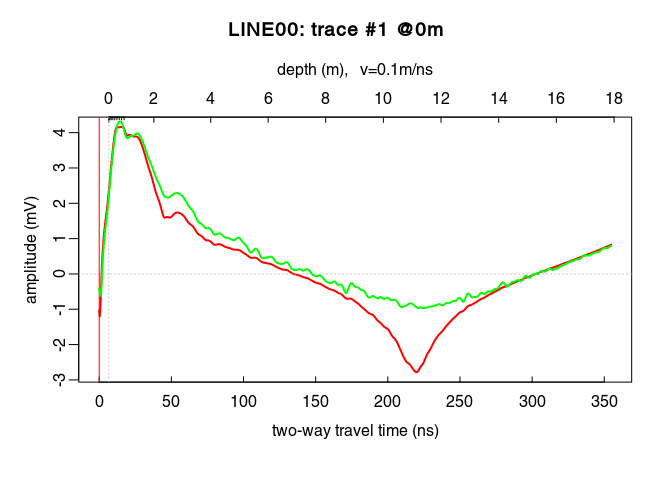
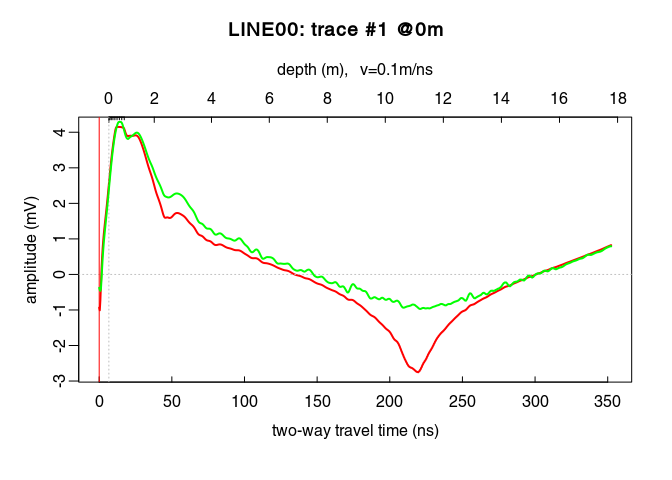
add function 'estimateTime0()'

diff --git a/02_RGPR_tutorial_basic-GPR-data-processing.md b/02_RGPR_tutorial_basic-GPR-data-processing.md
@@ -1,7 +1,7 @@
 ---
 layout: page
 title: Basic GPR data processing
-date: 2019-05-20
+date: 2019-07-27
 ---
 
 <!--
@@ -49,6 +49,29 @@ Install/load `RGPR` and set the working directory
     # install "devtools" if not already done
     if(!require("devtools")) install.packages("devtools")
     devtools::install_github("emanuelhuber/RGPR")
+    ```
+
+\`\`\`\#\#\#\#
+    checking for file ‘/tmp/RtmpuIK1eJ/remotes10695b062f93/emanuelhuber-RGPR-ef59f99/DESCRIPTION’...
+
+✔ checking for file ‘/tmp/RtmpuIK1eJ/remotes10695b062f93/emanuelhuber-RGPR-ef59f99/DESCRIPTION’\#\#
+
+─ preparing ‘RGPR’:\#\#
+
+checking DESCRIPTION meta-information...
+
+✔ checking DESCRIPTION meta-information\#\#
+
+─ checking for LF line-endings in source and make files and shell scripts\#\#
+
+─ checking for empty or unneeded directories\#\# ─ looking to see if a ‘data/datalist’ file should be added\#\#
+
+─ building ‘RGPR\_0.0.5.tar.gz’\#\#
+
+    ##
+    ```
+
+    ```r
     library(RGPR)       # load RGPR in the current R session
     ```
 
@@ -96,7 +119,7 @@ time0(x)
 The first wave break, $t_{\mathrm{fb}}$, is estimated for each traces (it is the time of the first wave record) with `firstBreak()`:
 
 ``` r
-tfb <- firstBreak(x, w = 20, method = "coppens", thr = 0.05) # take some time
+tfb <- firstBreak(x, w = 20, method = "coppens", thr = 0.05)
 plot(pos(x), tfb, pch = 20, ylab = "first wave break",
      xlab = "position (m)")
 ```
@@ -118,7 +141,10 @@ t0 <- firstBreakToTime0(tfb, x)
 time0(x) <- t0     # set time0
 ```
 
-Note that if `t0` is too noisy, you can set `time0(x) <- mean(t0)`.
+Note that:
+
+-   if `t0` is too noisy, you can set `time0(x) <- mean(t0)`.
+-   you can use `x <- setTime0(x, t0)` instead of `time0(x) <- t0` (both are the same)
 
 Check the results (do you see the difference between time zero in red and first wave break time in blue?):
 
@@ -128,6 +154,12 @@ abline(v = tfb[15], col = "blue")  # first wave break time
 ```
 
 ![plot single trace with time0 and first wave break time](02_RGPR_tutorial_basic-GPR-data-processing_tp_files/figure-markdown_github/time0_check-1.png)
+
+You can apply at once all the previous steps (first wave break estimation + set time-zero) with the function `estimateTime0()` (which has the same arguments as the functions `firstBreak()`, `firstBreakToTime0()` plus an extra argument - `FUN` - for function to apply to the estimated time-zero, e.g. `mean()`; see the documentation), i.e.:
+
+``` r
+xx <- estimateTime0(x, w = 20, method = "coppens", thr = 0.05, FUN = mean)
+```
 
 DC shift removal
 ----------------
@@ -546,7 +578,7 @@ writeGPR(x9, fPath = file.path(getwd(), "processing", paste0(name(x9), ".rds")),
     ##  1 fiducial(s)
     ##  description =
     ##  survey date = 2014-04-25
-    ##  Reflection, 100 MHz, Window length = 354.8 ns, dz = 0.4 ns
+    ##  Reflection, 100 MHz, Window length = 352.4 ns, dz = 0.4 ns
     ##  223 traces, 55.5 m
     ##  > PROCESSING
     ##    1. time0<-
